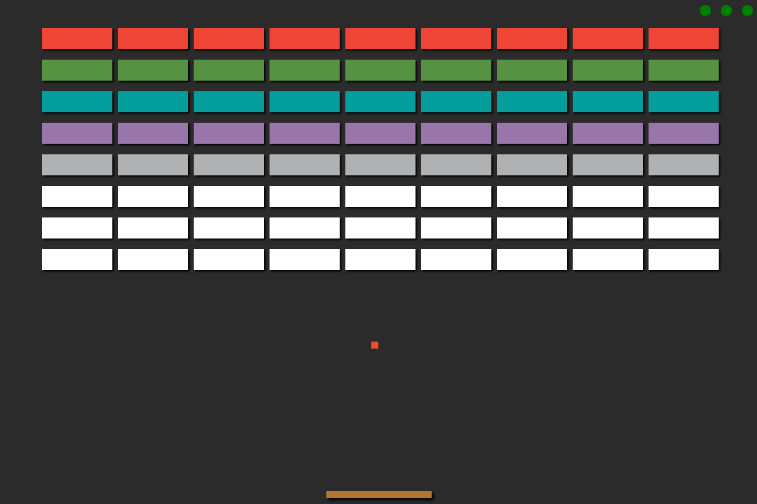
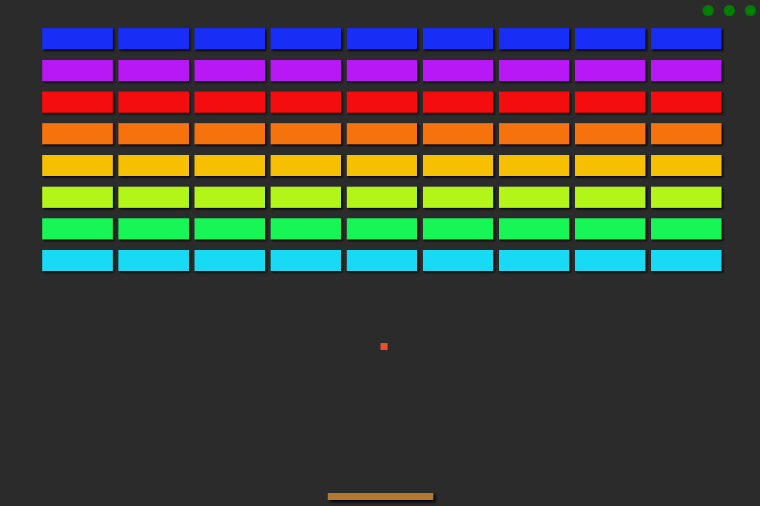
Changed color-scheme of the bricks.

Changed region(s): [[0.0304, 0.0298, 0.9723, 0.5357], [0.4861, 0.6548, 0.5165, 0.7143]]

diff --git a/src/app/canvas/canvas.component.ts b/src/app/canvas/canvas.component.ts
@@ -240,7 +240,7 @@ export class CanvasComponent implements OnInit {
     const bricks: Brick[] = [];
     for (let i = 0; i < 6; i++) {
       for (let j = 0; j < 8; j++) {
-        bricks.push(new Brick(this.ctx, this.GAME_WIDTH / 8.5 * j + 110, this.GAME_HEIGHT / 2 / 7 * i + 40, 5 - i));
+        bricks.push(new Brick(this.ctx, this.GAME_WIDTH / 8.5 * j + 110, this.GAME_HEIGHT / 2 / 7 * i + 40, 6 - i));
       }
     }
     return bricks;
@@ -250,7 +250,7 @@ export class CanvasComponent implements OnInit {
     const bricks: Brick[] = [];
     for (let i = 0; i < 8; i++) {
       for (let j = 0; j < 9; j++) {
-        bricks.push(new Brick(this.ctx, this.GAME_WIDTH / 10 * j + 110, this.GAME_HEIGHT / 2 / 8 * i + 40, 5 - i));
+        bricks.push(new Brick(this.ctx, this.GAME_WIDTH / 10 * j + 110, this.GAME_HEIGHT / 2 / 8 * i + 40, 8 - i));
       }
     }
     return bricks;

diff --git a/src/GameObjects/Brick.ts b/src/GameObjects/Brick.ts
@@ -24,16 +24,22 @@ export class Brick {
 
   getColor(): string {
     switch (this.hitpoints) {
+      case 8:
+        return '#182DF5';
+      case 7:
+        return '#B818F5';
+      case 6:
+        return '#F50C0E';
       case 5:
-        return '#EF4537';
+        return '#F5720C';
       case 4:
-        return '#579242';
+        return '#F6C000';
       case 3:
-        return '#049E9C';
+        return '#B3F518';
       case 2:
-        return '#9876AA';
+        return '#18F556';
       case 1:
-        return '#AFB1B3';
+        return '#18DAF5';
       default:
         return 'white';
     }

diff --git a/src/app/breakout/breakout.component.html b/src/app/breakout/breakout.component.html
@@ -6,7 +6,7 @@
 <h1 *ngIf="gameLost && gameOver && !mapSelectionMode" class="center">Game Over Final Score: {{score}}</h1>
 <h1 *ngIf="isStreak && !gameOver" class="center">Bonus-Streak: {{bonusStreak}}</h1>
 <div class="center" *ngIf="gameOver && !mapSelectionMode">
-  <button (click)="openMapSelection()" autofocus>Start Game</button>
+  <button (click)="openMapSelection()">Start Game</button>
 </div>
 <app-map-selection class="center" *ngIf="mapSelectionMode && gameOver"
                    (mapSelected)="startGame($event)"></app-map-selection>

diff --git a/src/app/breakout/breakout.component.ts b/src/app/breakout/breakout.component.ts
@@ -1,4 +1,4 @@
-import { Component, OnInit } from '@angular/core';
+import {Component, HostListener, OnInit} from '@angular/core';
 
 @Component({
   selector: 'app-breakout',
@@ -20,6 +20,13 @@ export class BreakoutComponent implements OnInit {
   constructor() { }
 
   ngOnInit(): void {
+  }
+
+  @HostListener('document:keydown', ['$event'])
+  handleDeleteKeyboardEvent(event: KeyboardEvent) {
+    if (event.key === 'Enter') {
+      this.openMapSelection();
+    }
   }
 
   updateScore(newScore: number): void {

diff --git a/src/app/map-selection/map-card/map-card.component.scss b/src/app/map-selection/map-card/map-card.component.scss
@@ -7,7 +7,6 @@
 
 .selected {
   background-color: rgb(1, 104, 114);
-  color: black;
 }
 
 img {
